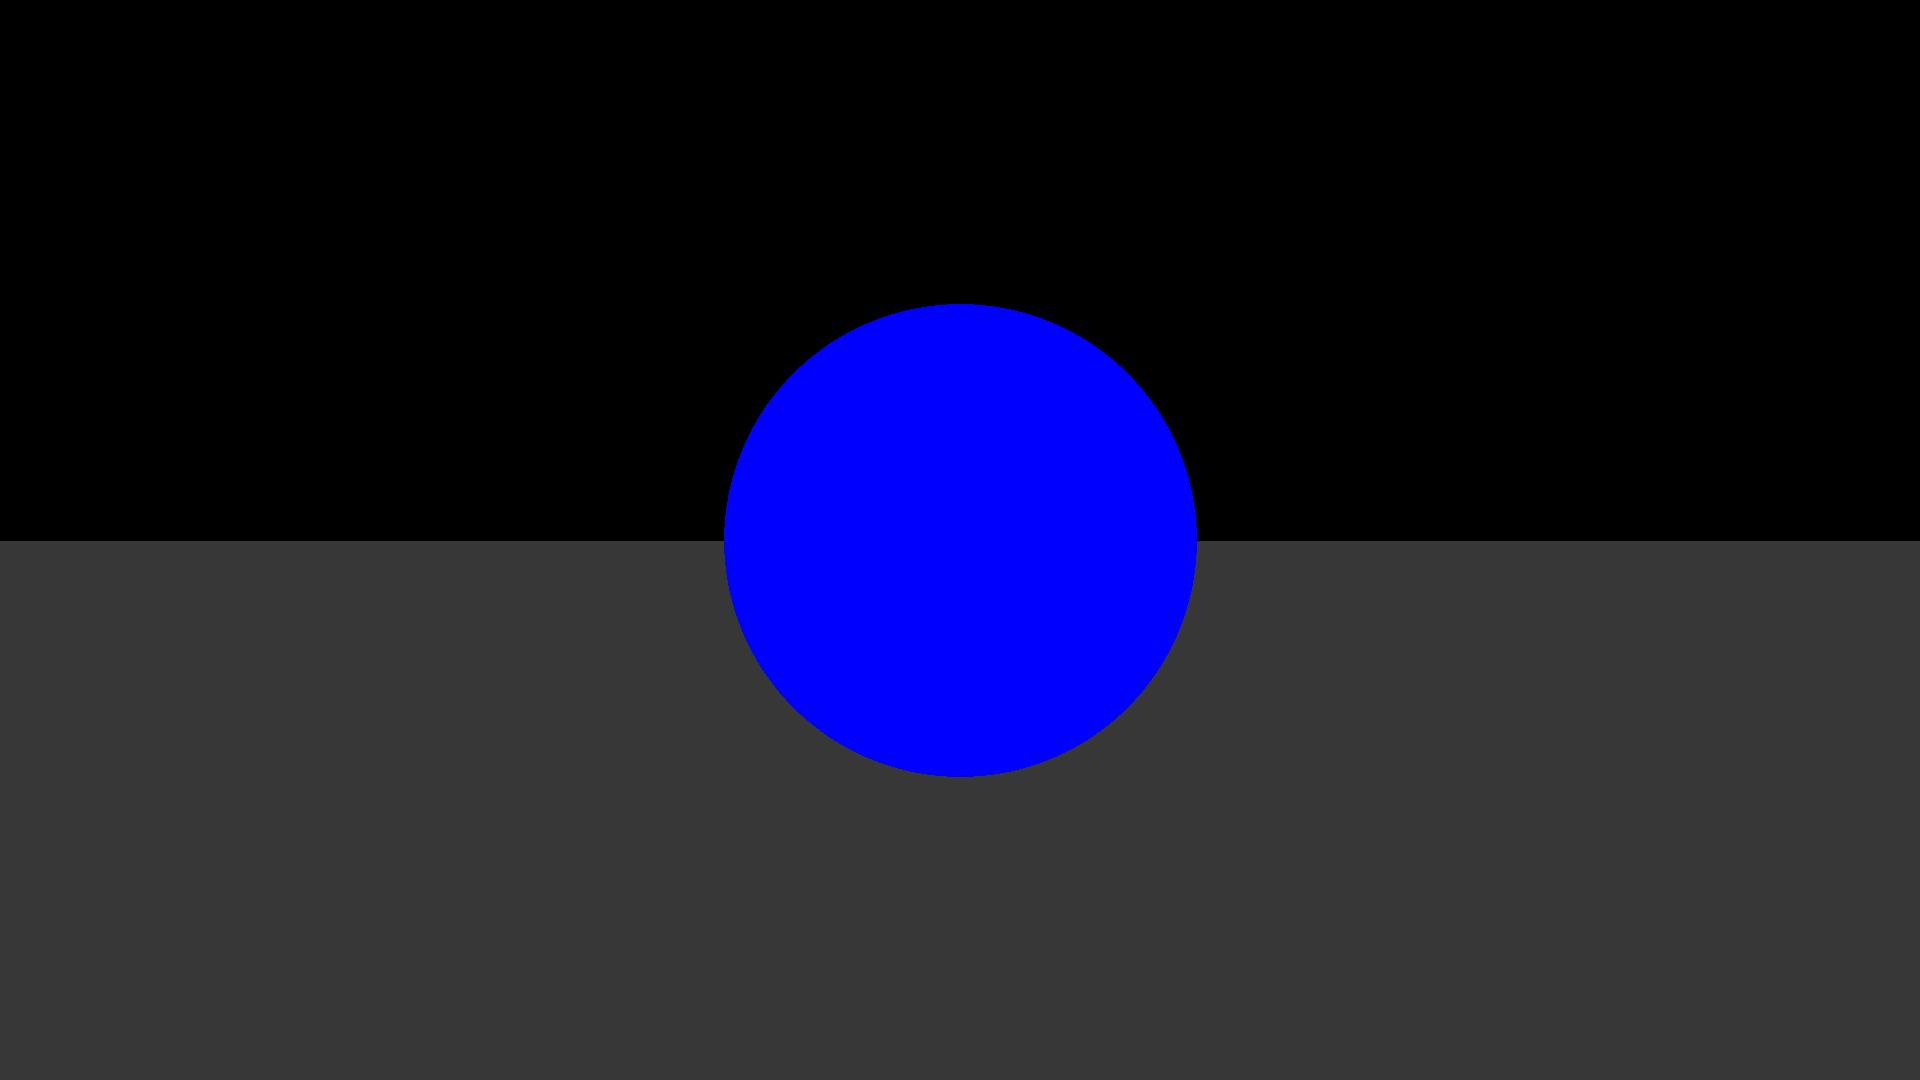
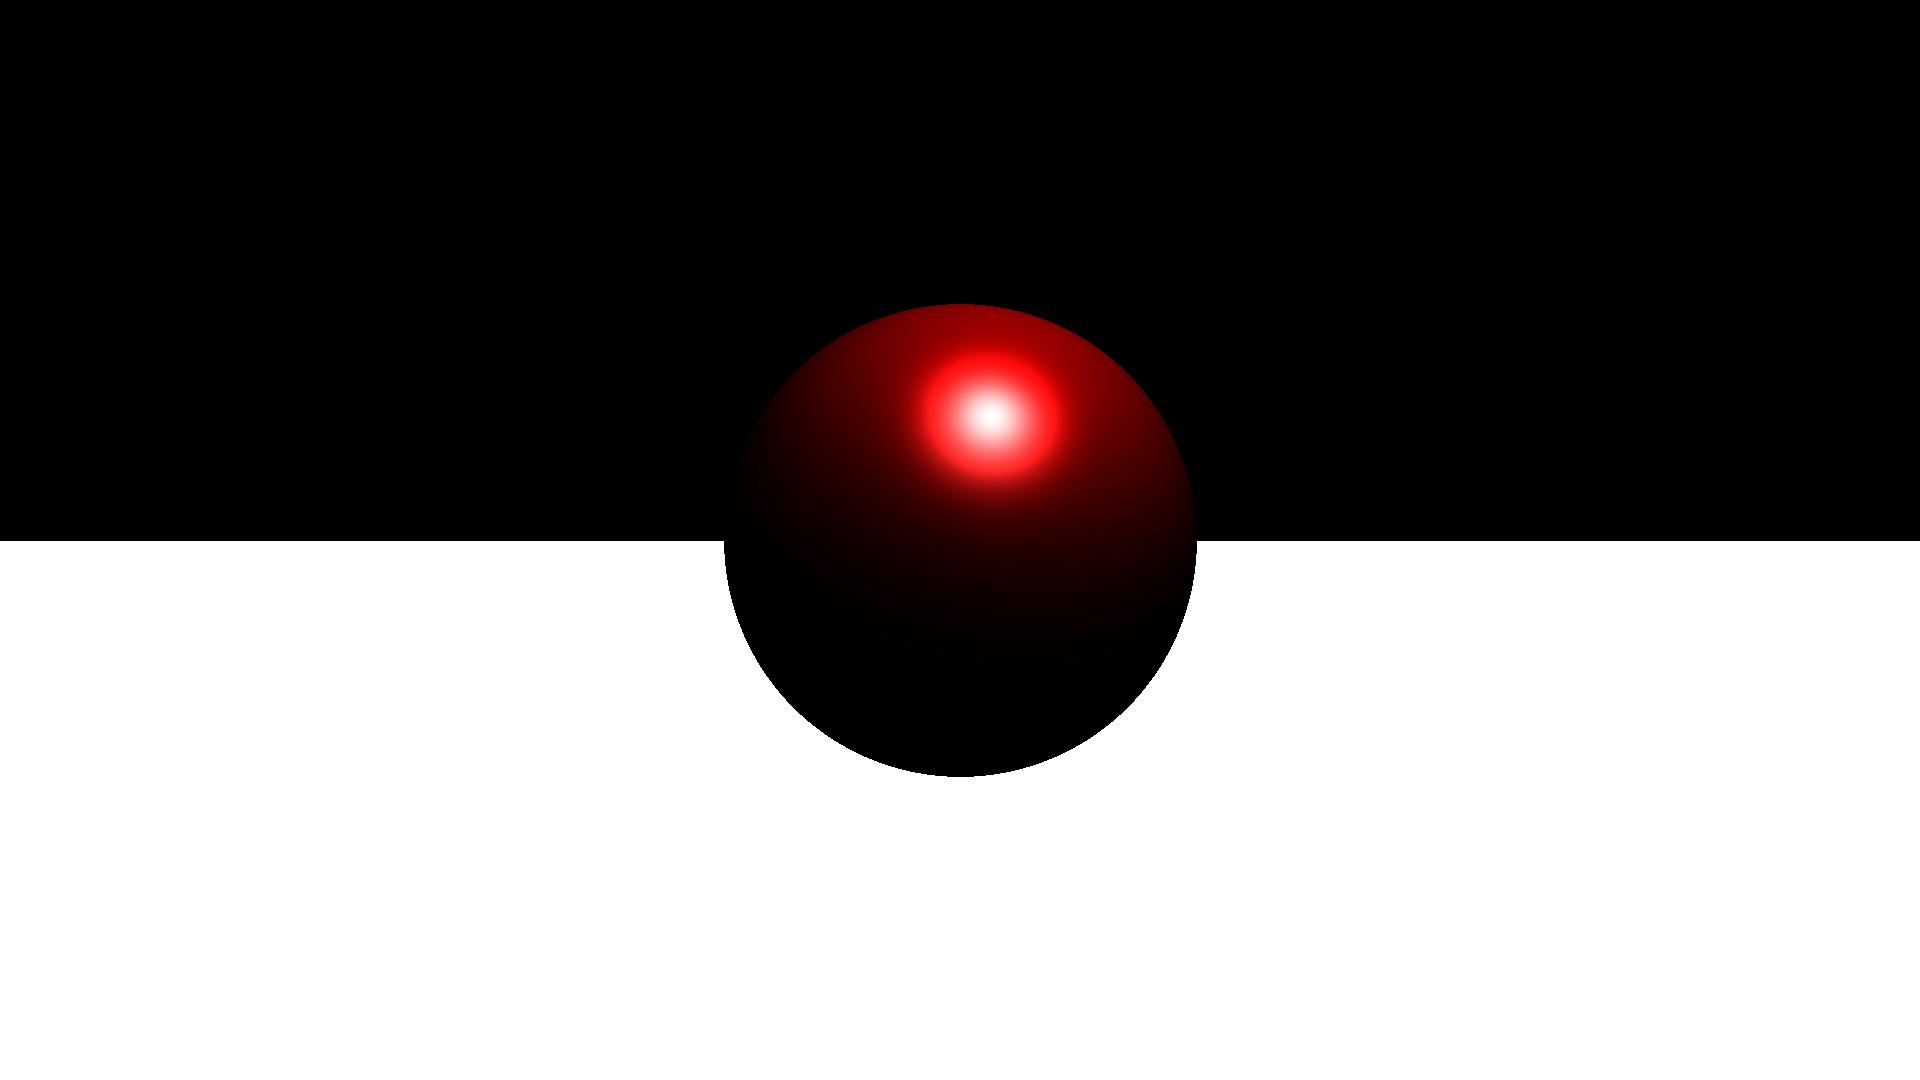
Add basic light

diff --git a/scene.py b/scene.py
@@ -1,8 +1,13 @@
 from intersection import Intersection
 from ray import Ray
 from shape import Shape
+from point_light import PointLight
+from vector_helpers import normalize
+from color import Color
 
 from typing import List
+
+import numpy as np
 
 class Scene:
     shapes: List[Shape]
@@ -13,7 +18,18 @@ class Scene:
     def add_shape(self, shape: Shape):
         self.shapes.append(shape)
 
-    def cast_ray(self, ray: Ray) -> Intersection:
+    def add_light_source(self, light_source: PointLight):
+        self.light_source = light_source
+
+    def cast_ray(self, ray: Ray) -> Color:
+        nearest_intersection = self.nearest_intersection(ray)
+        if nearest_intersection is None:
+            return None
+        illumination = self.calculate_illumination(ray, nearest_intersection)
+        color = Color.from_array(np.clip(illumination, 0, 1))
+        return color
+
+    def nearest_intersection(self, ray: Ray):
         intersection = Intersection(ray)
         for shape in self.shapes:
             shape_intersection = shape.intersection(ray)
@@ -22,9 +38,32 @@ class Scene:
             if shape_intersection < intersection:
                 intersection = shape_intersection
         
-        if intersection.t == ray.max_t:
+        if (intersection.t == ray.max_t) or (intersection.intersected_shape is None):
             return None
+
         return intersection
+
+    def calculate_illumination(self, ray: Ray, intersection: Intersection):
+        direction_to_light = normalize(self.light_source.position - intersection.position())
+        direction_to_camera = normalize(-ray.direction)
+        # normal = intersection.shape.normal_at_point(intersection.position)
+        normal = intersection.normal()
+
+        # material = intersection.shape.material
+        material = intersection.material()
+        illumination = np.zeros((3))
+        # ambient
+        ambient = (material.ambient_color * self.light_source.ambient_color).data
+        # diffuse
+        diffuse = (material.diffuse_color * self.light_source.diffuse_color).data 
+        diffuse *= np.dot(direction_to_light, normal)
+        # specular
+        h = normalize(direction_to_light + direction_to_camera)
+        specular = (material.specular_color * self.light_source.specular_color).data
+        specular *= np.dot(normal, h) ** (material.shininess / 4.0)
+
+        illumination = ambient + diffuse + specular
+        return illumination
 
     def does_intesect(self, intersection: Intersection):
         for shape in self.shapes:

diff --git a/color.py b/color.py
@@ -3,9 +3,11 @@ import math
 
 class Color():
     def __init__(self, r = 0, g = 0, b = 0):
-        self.r = r
-        self.g = g
-        self.b = b
+        self.data = np.array([r, g, b])
+
+    def from_array(array):
+        r, g, b = array[0], array[1], array[2]
+        return Color(r, g, b)
 
     def gray(w):
         return Color(w, w, w)
@@ -19,29 +21,19 @@ class Color():
         return Color(r / 255, g / 255, b / 255)
 
     def clamp(self, min = 0.0, max = 1.0):
-        self.r = self.clamp_component(self.r, min, max)
-        self.g = self.clamp_component(self.g, min, max)
-        self.b = self.clamp_component(self.b, min, max)
-
-    def clamp_component(self, component, min, max):
-        component = math.min(max, component)
-        component = math.max(min, component)
-        return component
-
-    def to_nparray(self):
-        return np.array([self.r, self.g, self.b])
+        return np.clip(self.data, min, max)
 
     def __add__(self, other):
         if not isinstance(other, Color):
             raise TypeError("Cannot add color with not color")
 
-        return Color(self.r + other.r, self.g + other.g, self.b + other.b)
+        return Color.from_array(self.data + other.data)
 
     def __mul__(self, other):
         if not isinstance(other, Color):
             raise TypeError("Cannot multiply color with not color")
 
-        return Color(self.r * other.r, self.g * other.g, self.b * other.b)
+        return Color.from_array(self.data * other.data)
         
     def red():
         return Color(1.0, 0.0, 0.0)

diff --git a/sphere.py b/sphere.py
@@ -2,16 +2,17 @@ from shape import Shape
 from ray import Ray
 from constants import RAY_MIN_DISTANCE
 from intersection import Intersection
-from color import Color
+from material import Material
+from vector_helpers import normalize
 
 import numpy as np
 import math
 
 class Sphere(Shape):
-    def __init__(self, center: np.ndarray, radius: float, color=Color.unnormalized_gray(255)):
+    def __init__(self, center: np.ndarray, radius: float, material: Material):
         self.center = center
         self.radius = radius
-        self.color = color
+        super().__init__(material)
 
     def intersection(self, ray: Ray):
         local_ray = self.translated_ray(ray)
@@ -22,7 +23,7 @@ class Sphere(Shape):
         t = self.best_solution(ts)
         if t is None:
             return None
-        return Intersection(ray, self, t, self.color)
+        return Intersection(ray, self, t)
 
     def quadric_equation_solution(self, a, b, c):
         discriminant = b ** 2 - 4 * a * c
@@ -58,3 +59,6 @@ class Sphere(Shape):
         translated_ray = Ray.copy(ray)
         translated_ray.origin = translated_ray.origin - self.center
         return translated_ray
+
+    def normal_at_point(self, point: np.ndarray):
+        return normalize(point - self.center)

diff --git a/main.py b/main.py
@@ -4,6 +4,8 @@ from sphere import Sphere
 from plane import Plane
 from image import Image
 from color import Color
+from material import Material
+from point_light import PointLight
 
 import numpy as np
 import math
@@ -11,8 +13,20 @@ import math
 from raytrace import ray_trace
 
 scene = Scene()
-scene.add_shape(Plane(np.array([0.0, 0.0, 0.0]), np.array([0.0, 1.0, 0.0]), Color(0.5, 0.5, 0.5)))
-scene.add_shape(Sphere(np.array([0, 1.0, 0]), 1.0, Color.blue()))
+
+sphere_material = Material(Color(0.1, 0, 0), Color(0.7, 0, 0), Color.gray(1.0))
+plane_material = Material(Color.gray(0.1), Color.gray(0.5), Color.gray(1.0), 0.0)
+
+sphere = Sphere(np.array([0, 1.0, 0]), 1.0, sphere_material)
+plane = Plane(np.array([0.0, 0.0, 0.0]), np.array([0.0, 1.0, 0.0]), plane_material)
+
+scene.add_shape(plane)
+scene.add_shape(sphere)
+
+light_material = Material(Color(1, 1, 1), Color(1, 1, 1), Color(1, 1, 1), 100.0)
+light = PointLight(np.array([-3.0, 5.0, 1.0]), light_material)
+
+scene.add_light_source(light)
 
 image = Image(1920, 1080)
 camera = Camera(np.array([-5.0, 1.0, 0.0]), np.array([0.0, 1.0, 0.0]), 

diff --git a/plane.py b/plane.py
@@ -1,16 +1,17 @@
 from shape import Shape
 from intersection import Intersection
 from ray import Ray
-from color import Color
+from material import Material
 import numpy as np
 from constants import EPS
 from constants import RAY_MIN_DISTANCE
+from vector_helpers import normalize
 
 class Plane(Shape):
-    def __init__(self, position: np.ndarray, normal: np.ndarray, color=Color.unnormalized_gray(255)):
+    def __init__(self, position: np.ndarray, normal: np.ndarray, material: Material):
         self.position = position
         self.normal = normal
-        self.color = color
+        super().__init__(material)
 
     def intersection(self, ray: Ray):
         ray_dir_dot_normal = np.dot(ray.direction, self.normal)
@@ -21,4 +22,7 @@ class Plane(Shape):
         if (t < RAY_MIN_DISTANCE):
             return None
      
-        return Intersection(ray, self, t, self.color)
+        return Intersection(ray, self, t)
+
+    def normal_at_point(self, point: np.ndarray):
+        return normalize(self.normal)

diff --git a/intersection.py b/intersection.py
@@ -1,13 +1,18 @@
 from ray import Ray
 
 class Intersection:
-    def __init__(self, ray: Ray, shape = None, t: float = None, color = None):
+    def __init__(self, ray: Ray, shape = None, t: float = None):
         self.ray = ray
         self.t = t
         if t is None:
             self.t = ray.max_t
-        self.intersected_shape = None
-        self.color = color
+        self.intersected_shape = shape
+
+    def material(self):
+        return self.intersected_shape.material
+
+    def normal(self):
+        return self.intersected_shape.normal_at_point(self.position())
 
     def intersected(self):
         return self.intersected_shape != None

diff --git a/raytrace.py b/raytrace.py
@@ -11,6 +11,6 @@ def ray_trace(image: Image, scene: Scene, camera: Camera):
             camera_x = 2.0 * x / image.width - 1.0
             camera_y = -2.0 * y / image.height + 1.0
             ray = camera.make_ray(camera_x, camera_y)
-            intersection = scene.cast_ray(ray)
-            if intersection is not None:
-                image.put_pixel(x, y, intersection.color)
+            color = scene.cast_ray(ray)
+            if color is not None:
+                image.put_pixel(x, y, color)

diff --git a/shape.py b/shape.py
@@ -1,6 +1,14 @@
 from intersection import Intersection
 from ray import Ray
+from material import Material
+import numpy as np
 
 class Shape:
+    def __init__(self, material):
+        self.material = material
+
     def intersection(self, ray: Ray) -> Intersection:
         raise NotImplementedError("Intersect is not implemented")
+
+    def normal_at_point(self, point: np.ndarray):
+        raise NotImplementedError("Normal at point is not implemented")

diff --git a/material.py b/material.py
@@ -1,0 +1,10 @@
+from color import Color
+import numpy as np
+
+class Material:
+    def __init__(self, ambient_color: Color, diffuse_color: Color, specular_color: Color, 
+                       shininess: float = 100.0):
+        self.ambient_color = ambient_color
+        self.diffuse_color = diffuse_color
+        self.specular_color = specular_color
+        self.shininess = shininess

diff --git a/point_light.py b/point_light.py
@@ -1,0 +1,9 @@
+from material import Material
+import numpy as np
+
+class PointLight:
+    def __init__(self, position: np.ndarray, material: Material):
+        self.position = position
+        self.ambient_color = material.ambient_color
+        self.diffuse_color = material.diffuse_color
+        self.specular_color = material.specular_color

diff --git a/image.py b/image.py
@@ -16,7 +16,7 @@ class Image:
         if (y < 0 or y >= self.height):
             raise ValueError("Invalid y")
 
-        self.data[y, x] = color.to_nparray()
+        self.data[y, x] = color.data
 
     def apply_gamma_correction(self, exposure = 1.0, gamma = 2.2):
         return np.clip(np.power(self.data * exposure, gamma), 0.0, 1.0)

diff --git a/vector_helpers.py b/vector_helpers.py
@@ -1,0 +1,4 @@
+import numpy as np
+
+def normalize(vector: np.ndarray):
+    return vector / np.linalg.norm(vector)
